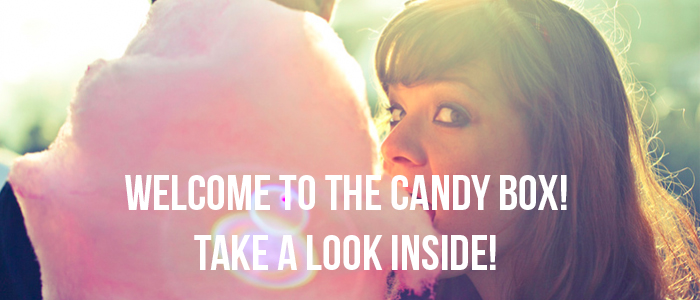
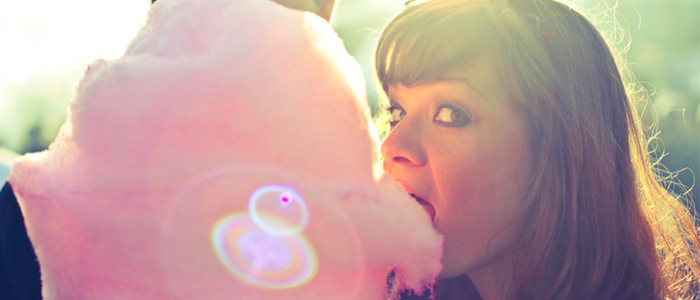
home page changed
change the images and remove text with images, divide image and text
into different options.

Changed region(s): [[0.18, 0.57, 0.81, 0.72], [0.27, 0.78, 0.72, 0.9]]

diff --git a/p2.css b/p2.css
@@ -1,4 +1,7 @@
-body {background-image:url('bg.jpg');}
+body {
+	background-image:url('bg.jpg');
+	font: 1em Arial Rounded MT Bold, Helvetica, Arial, sans-serif;	
+	}
 
 
 
@@ -22,13 +25,21 @@ body { /* make everything at the middle*/
 
 #candy {
 	float: left;
+	/*
 	background-color:#FAC8D9;
+	*/
+	background:linear-gradient(to right,#F75A93,#F75A73);
 	width:100px;
 	height:125px;
 	position: relative; /* without this it will be at the bottom of the page */
 	/*margin: 0px auto;*/
 	/*padding: 10px 20px 10px 20px;*/
 	/*margin:50px, 0px, 50px, 100px;*/
+	border-top-left-radius:1em;
+	border-top-right-radius:0em;
+	border-bottom-right-radius:0em;
+	border-bottom-left-radius:1em;
+	
 }
 
 #candyimage {
@@ -39,12 +50,141 @@ body { /* make everything at the middle*/
 	/*margin: 0px auto;*/
 	/*padding: 10px 20px 10px 20px;
 	margin:50px, 100px, 50px, 0px;*/
+	border-top-left-radius:0em;
+	border-top-right-radius:1em;
+	border-bottom-right-radius:1em;
+	border-bottom-left-radius:0em;
+	background-image: url("header.jpg");
+    background-size: cover;
+    background-repeat: no-repeat;
+    background-position: 50% 50%;
 }
+
 
 h2 {
 	color: #FFFFFF;
 	font-size: 30px;
 }
+
+
+#holder {
+	width: 700px;
+	height: 60px;
+	margin: 0px auto;
+	/*
+	background-color: #000000;
+	*/
+	background:linear-gradient(to right,#F75A93,#F75A73);
+	border-top-left-radius:1em;
+	border-top-right-radius:1em;
+	border-bottom-right-radius:1em;
+	border-bottom-left-radius:1em;
+}
+
+h5{
+	color: #FFFFFF;
+	font-size: 15px;
+}
+
+#about {
+	float:left;
+	width: 175px;
+	height: 60px;
+	/*
+	background-color: #4DEDF0;
+	*/
+	position: relative;
+	vertical-align: middle;
+	border-top-style:none;
+	border-right-style:solid;
+	border-right-color: #E8E8E8;
+	border-right-width: 1px;
+	border-left-style:none;
+	border-bottom-style:none;
+	border-top-left-radius:1em;
+	border-top-right-radius:0em;
+	border-bottom-right-radius:0em;
+	border-bottom-left-radius:1em;
+}
+
+#atext {
+	display: table-cell;
+	width: 175px;
+	height: 60px;
+	position: relative;
+	vertical-align:middle;
+	text-align: center;
+}
+
+
+#contact {
+	float:left;
+	width: 175px;
+	height: 60px;
+	/*
+	background-color: #4DEDF0;
+	*/
+	position: relative;
+	vertical-align: middle;
+	border-top-style:none;
+	border-right-style:solid;
+	border-right-color: #E8E8E8;
+	border-right-width: 1px;
+	border-left-style:none;
+	border-bottom-style:none;
+}
+
+#ctext {
+	display: table-cell;
+	width: 175px;
+	height: 60px;
+	position: relative;
+	vertical-align:middle;
+	text-align: center;
+}
+
+
+#buy {
+	float:left;
+	width: 175px;
+	height: 60px;
+	/*
+	background-color: #4DEDF0;
+	*/
+	position: relative;
+	vertical-align: middle;
+	border-top-style:none;
+	border-right-style:solid;
+	border-right-color: #E8E8E8;
+	border-right-width: 1px;
+	border-left-style:none;
+	border-bottom-style:none;
+}
+
+#btext {
+	display: table-cell;
+	width: 175px;
+	height: 60px;
+	position: relative;
+	vertical-align:middle;
+	text-align: center;
+}
+
+#icon {
+	float:left;
+	width: 172px;
+	height: 60px;
+	/*
+	background-color: #4DEDF0;
+	*/
+	position: relative;
+	border-top-left-radius:0em;
+	border-top-right-radius:1em;
+	border-bottom-right-radius:1em;
+	border-bottom-left-radius:0em;
+}
+
+
 
 #welcome {
 	/*background-color:#000000;*/
@@ -53,10 +193,18 @@ h2 {
 	margin: 0px auto;
 	position: relative;
 	vertical-align: middle;
+	background-image: url("welcome.jpg");
+    background-size: cover;
+    background-repeat: no-repeat;
+    background-position: 50% 50%;
+	border-top-left-radius:1em;
+	border-top-right-radius:1em;
+	border-bottom-right-radius:1em;
+	border-bottom-left-radius:1em;
 
 }
 
-/*
+
 #welcometext{
 	display: table-cell;
 	width: 700px;
@@ -65,7 +213,7 @@ h2 {
 	vertical-align:middle;
 	text-align: center;
 }
-*/
+
 
 h3 {
 	color: #FAC8D9;
@@ -128,6 +276,7 @@ h3 {
 	margin: 12.5px;
 }
 
+/*
 #holder {
 	width: 700px;
 	height: 250px;
@@ -157,6 +306,7 @@ h3 {
 	background-color: #000000;
 	margin:16px;
 }
+*/
 
 #more {
 	width:700px;

diff --git a/Ben_p2.html b/Ben_p2.html
@@ -12,19 +12,50 @@
 				<h1> CANDY<br/>BOX</h1>
 			</div>
 			<div id="candyimage">
+			<!--
 			<img src ="header.jpg">
+			-->
+			</div>
+		</div>
+		<br/>
+		
+		<div id="holder">
+			<div id="about">
+				<div id="atext">
+				<h5>ABOUT</h5>
+				</div>
+			</div>
+			<div id="contact">
+				<div id="ctext">
+				<h5>CONTACT</h5>
+				</div>
+			</div>
+			<div id="buy">
+				<div id="btext">
+				<h5>BUY NOW</h5>
+				</div>
+			</div>
+			<div id="icon">
+			<!--
+				<div id="btext">
+				<h5>BUY NOW</h5>
+				</div>
+				-->
 			</div>
 		</div>
 		<br/>
 		<div id="welcome">
+			<!--
 			<img src ="welcome.jpg">
-			<!--<div id="welcometext">
+			-->
+			<div id="welcometext">
 			<h2>
 			Welcome TO THE CANDY BOX!<br/>TAKE A LOOK INSIDE!
 			</h2>
+			<!--
 			<img src ="welcome.jpg">
-			</div>
 			-->
+			</div>
 		</div>
 		<br/>
 		<div id="deals">
@@ -47,6 +78,7 @@
 				</div>
 			</div>
 		</div>
+		<!--
 		<br/>
 		<div id= "holder">
 			<div id="about">
@@ -62,6 +94,7 @@
 				<h2>YOUR ORDER</h2>
 			</div>
 		</div>
+		-->
 		<br/>
 		<div id="more">
 			<div id="moretext">
